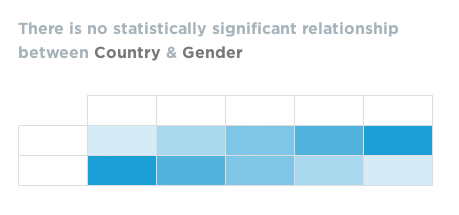
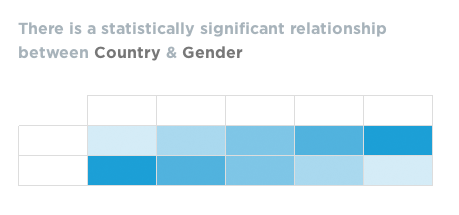
Greg typo fix

Changed region(s): [[0.183, 0.0837, 0.8845, 0.1674]]

diff --git a/index.html b/index.html
@@ -558,7 +558,7 @@
 							</div>
 	
 							<div class="card compare6 compare-result">
-								<h4 class="customer-satisfaction">There is no statistically significant relationship between <span class="var_name" style="color: #777777">Country</span> &amp; <span class="var_name" style="color: #777777">Gender</span></h4>
+								<h4 class="customer-satisfaction">There is a statistically significant relationship between <span class="var_name" style="color: #777777">Country</span> &amp; <span class="var_name" style="color: #777777">Gender</span></h4>
 								<div style="margin:20px;">
 									<table class="table table-bordered gendervcountry">
 										<tbody>
